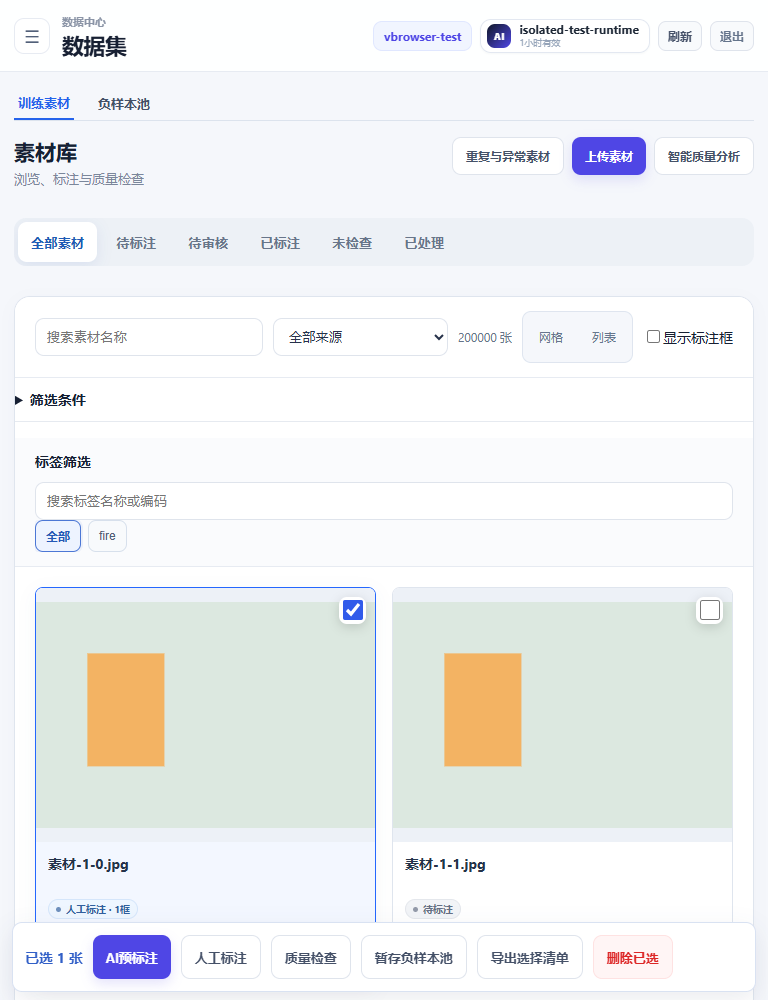
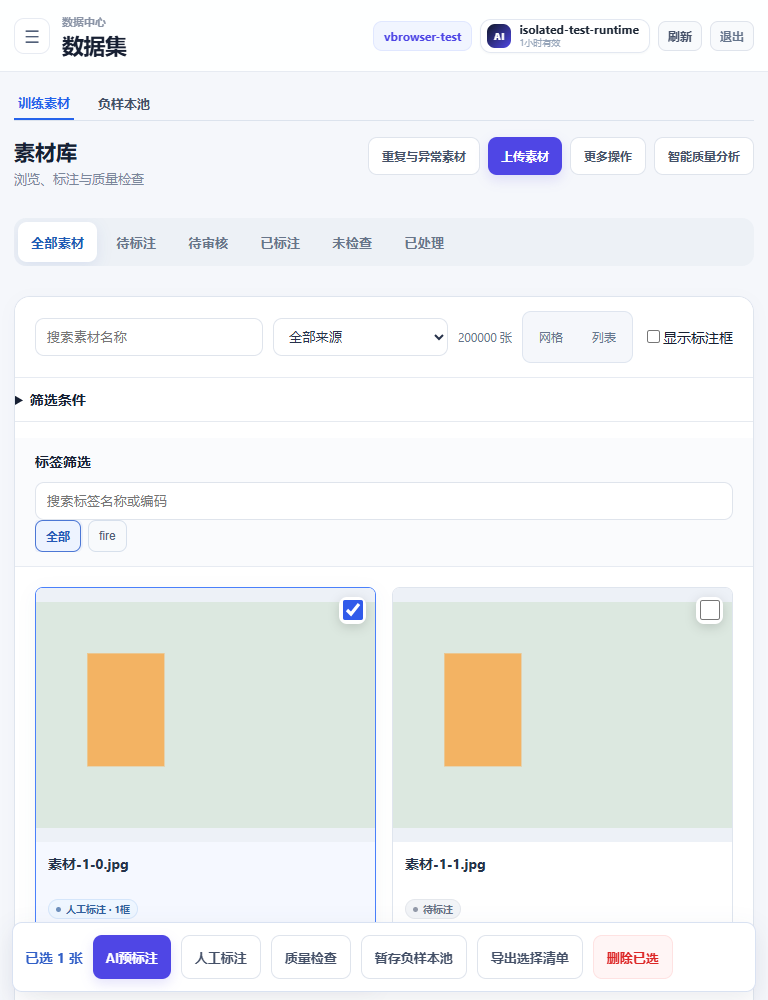
fix(materials): expose original project maintenance through scoped menu

Changed region(s): [[0.5, 0.124, 0.8438, 0.186]]

diff --git a/static/app.js b/static/app.js
@@ -5476,6 +5476,7 @@ var radar424 = window.radar424 = window.radar424 || function(scores,cls=''){cons
     document.querySelectorAll('[data-material-view]').forEach(button=>button.setAttribute('aria-pressed',String(button.dataset.materialView===view)));
   };
   function card412(x){const sel=state.data412Selected.has(x.id);return `<article class="data426-card data412-card ${sel?'selected':''}" data-material-id="${esc(x.id)}" onclick="previewData429('${esc(x.id)}')"><div class="data426-pic data411-pic">${materialMedia412(x,!state.materialShowBoxes549)}<label class="data426-check" onclick="event.stopPropagation()"><input aria-label="选择 ${esc(x.filename||x.id)}" type="checkbox" ${sel?'checked':''} onchange="setData412('${esc(x.id)}',this.checked)"><i></i></label></div><div class="data426-body"><div class="data426-title" title="${esc(x.filename)}">${esc(x.filename)}</div><div class="data426-meta"><span class="annotation-status-v66 ${esc(window.materialAnnotationStatusClassV66?.(x)||'pending')}">${esc(window.materialAnnotationStatusV66?.(x)||(x.annotated?`已标注 · ${x.box_count||0}框`:'待标注'))}</span></div><div class="data426-actions" onclick="event.stopPropagation()">${window.annotationMaterialActionV66(x)}<button class="btn mini" aria-label="更多操作 ${esc(x.filename||x.id)}" onclick="materialMenu549(this,'${esc(x.id)}')">${window.MaterialPresentation?.icon('ellipsis')||'⋯'}</button></div></div></article>`}
+  window.materialGlobalMenu552=button=>window.MaterialPresentation?.openMenu(button,[{label:'清空项目素材库',danger:true,action:()=>window.clearProjectMaterials61?.()}]);
   window.materialMenu549=(button,id)=>window.MaterialPresentation?.openMenu(button,[{label:'查看图片',action:()=>previewData429(id)},{label:'AI预标注',action:()=>createAiLabel427({image_ids:[id]})},{label:'人工标注',action:()=>openAnnotation(id)},{label:'质量检查（可选）',action:()=>createClean427({image_ids:[id]})},{label:'加入负样本池',action:()=>window.NegativePoolRuntime?.joinSelected?.([id])}]);
   window.toggleMaterialBoxes549=on=>{state.materialShowBoxes549=on;renderData412Cards()};
   window.materialBulk549=action=>{const ids=[...state.data412Selected];if(!ids.length)return toast('请先选择图片');if(action==='ai')return createAiLabel427({image_ids:ids});if(action==='manual')return window.openBatchAnnotation417();if(action==='quality')return createClean427({image_ids:ids});if(action==='negative')return window.NegativePoolRuntime?.joinSelected?.(ids);if(action==='export'){const blob=new Blob([JSON.stringify({project_id:pid(),image_ids:ids,filters:window.materialBatchFilters61?.()||{},scope:'explicit_selected_ids',kind:'material_selection_manifest'},null,2)],{type:'application/json'}),url=URL.createObjectURL(blob),link=document.createElement('a');link.href=url;link.download='素材选择清单.json';link.click();setTimeout(()=>URL.revokeObjectURL(url),0)};};
@@ -5529,7 +5530,7 @@ var radar424 = window.radar424 = window.radar424 || function(scores,cls=''){cons
     const pager=document.getElementById('data412Pager');if(pager)pager.innerHTML=`<button class="btn mini" ${state.data412Page<=1?'disabled':''} onclick="state.data412Page--;renderData412Cards()">上一页</button><span>${state.data412Page} / ${pages}</span><button class="btn mini" ${state.data412Page>=pages?'disabled':''} onclick="state.data412Page++;renderData412Cards()">下一页</button>`;
     if(rows.length)void window.refreshAiMaterialStates60?.(rows.map(row=>String(row.id)));
   }
-  window.renderDatasets424=function(){if(window.NegativePoolRuntime?.active('materials'))return window.NegativePoolRuntime.renderPool('materials');const tabs=[['all','全部素材'],['unannotated','待标注'],['needs_review','待审核'],['annotated','已标注'],['unprocessed','未检查'],['processed','已处理']];document.getElementById('view').innerHTML=`<section class="data426-shell material-workspace412"><div class="data426-head"><div><h2>素材库</h2><span>浏览、标注与质量检查</span></div><div class="row material-global-actions549"><button class="btn primary" onclick="openDataUpload426()">上传素材</button></div></div><div class="data424-tabs">${tabs.map(([key,title])=>`<button class="${state.data412Tab===key?'on':''}" onclick="setData412Tab('${key}')">${title}</button>`).join('')}</div><section class="panel data426-panel"><div class="data426-toolbar"><input id="data412Q" class="input" placeholder="搜索素材名称" oninput="state.data412Page=1;renderData412Cards()"><select id="materialSource61" class="select" onchange="state.materialSourceFilter61=this.value;renderDatasets424()"><option value="all">全部来源</option>${(state.storageSources61||[]).map(x=>`<option value="${esc(x.id)}" ${state.materialSourceFilter61===x.id?'selected':''}>${esc(x.name)}</option>`).join('')}</select><span id="data412Count"></span><div class="material-view-switch"><button class="btn" data-material-view="grid" onclick="setMaterialView412('grid')">网格</button><button class="btn" data-material-view="list" onclick="setMaterialView412('list')">列表</button></div><label><input type="checkbox" ${state.materialShowBoxes549?'checked':''} onchange="toggleMaterialBoxes549(this.checked)">显示标注框</label></div><details class="material-filters549"><summary>筛选条件</summary><div class="row"><label>ZIP批次<input class="input" value="${esc(state.materialBatchFilter61||'')}" onchange="setMaterialFilter549('materialBatchFilter61',this.value)"></label><label>质量状态<select class="select" onchange="setMaterialFilter549('materialQualityFilter61',this.value)"><option value="">全部</option><option value="pending_decision" ${state.materialQualityFilter61==='pending_decision'?'selected':''}>未检查</option><option value="processed" ${state.materialQualityFilter61==='processed'?'selected':''}>已处理</option><option value="issue" ${state.materialQualityFilter61==='issue'?'selected':''}>有问题</option></select></label><label>起始日期<input type="date" value="${esc(state.materialCreatedFrom61||'')}" onchange="setMaterialFilter549('materialCreatedFrom61',this.value)"></label><label>截止日期<input type="date" value="${esc(state.materialCreatedTo61||'')}" onchange="setMaterialFilter549('materialCreatedTo61',this.value)"></label></div></details><div class="data426-filtertop"><div class="data426-filter-title"><b>标签筛选</b></div><div class="data426-chips">${actualLabels412().slice(0,40).map(l=>`<button class="data426-chip ${state.data412Labels.has(l)?'on':''}" onclick="toggleLabel412('${esc(l)}')">${esc(l)}</button>`).join('')}<button class="btn" onclick="clearLabels412()">清除标签</button><button class="btn danger" onclick="state.data412DeleteMode=true;deleteFilteredMaterials61()">删除筛选结果</button></div></div><div id="data412Grid" class="data426-grid" data-material-view="${state.materialView412==='list'?'list':'grid'}"></div><div id="data412Pager" class="data426-pager"></div><div class="material-select-tools549"><button class="btn" onclick="selectAll412()">选择本页</button><button class="btn" onclick="invert412()">反选本页</button><button class="btn" onclick="state.data412Selected.clear();renderData412Cards()">清除选择</button></div><div id="materialBulk549" class="material-bulk549" hidden><b id="data412SelCount"></b><button class="btn primary" onclick="materialBulk549('ai')">AI预标注</button><button class="btn" onclick="materialBulk549('manual')">人工标注</button><button class="btn" onclick="materialBulk549('quality')">质量检查</button><button class="btn" onclick="materialBulk549('negative')">暂存负样本池</button><button class="btn" onclick="materialBulk549('export')">导出选择清单</button><button class="btn danger" onclick="batchDelete412()">删除已选</button></div></section></section>`;renderData412Cards();window.decorateDatasetControls414?.();window.decorateDatasetUsability417?.();window.renderSupplementDataBanner63?.();window.NegativePoolRuntime?.decorateOriginal('materials');if(!state.storageSourcesLoadedAt61&&!state.storageSourcesLoading61){const project=String(pid());window.loadStorageSources61?.().then(()=>{if(state.page==='数据集'&&String(pid())===project)renderDatasets424()}).catch(()=>{})}};
+  window.renderDatasets424=function(){if(window.NegativePoolRuntime?.active('materials'))return window.NegativePoolRuntime.renderPool('materials');const tabs=[['all','全部素材'],['unannotated','待标注'],['needs_review','待审核'],['annotated','已标注'],['unprocessed','未检查'],['processed','已处理']];document.getElementById('view').innerHTML=`<section class="data426-shell material-workspace412"><div class="data426-head"><div><h2>素材库</h2><span>浏览、标注与质量检查</span></div><div class="row material-global-actions549"><button class="btn primary" onclick="openDataUpload426()">上传素材</button><button class="btn" onclick="materialGlobalMenu552(this)">更多操作</button></div></div><div class="data424-tabs">${tabs.map(([key,title])=>`<button class="${state.data412Tab===key?'on':''}" onclick="setData412Tab('${key}')">${title}</button>`).join('')}</div><section class="panel data426-panel"><div class="data426-toolbar"><input id="data412Q" class="input" placeholder="搜索素材名称" oninput="state.data412Page=1;renderData412Cards()"><select id="materialSource61" class="select" onchange="state.materialSourceFilter61=this.value;renderDatasets424()"><option value="all">全部来源</option>${(state.storageSources61||[]).map(x=>`<option value="${esc(x.id)}" ${state.materialSourceFilter61===x.id?'selected':''}>${esc(x.name)}</option>`).join('')}</select><span id="data412Count"></span><div class="material-view-switch"><button class="btn" data-material-view="grid" onclick="setMaterialView412('grid')">网格</button><button class="btn" data-material-view="list" onclick="setMaterialView412('list')">列表</button></div><label><input type="checkbox" ${state.materialShowBoxes549?'checked':''} onchange="toggleMaterialBoxes549(this.checked)">显示标注框</label></div><details class="material-filters549"><summary>筛选条件</summary><div class="row"><label>ZIP批次<input class="input" value="${esc(state.materialBatchFilter61||'')}" onchange="setMaterialFilter549('materialBatchFilter61',this.value)"></label><label>质量状态<select class="select" onchange="setMaterialFilter549('materialQualityFilter61',this.value)"><option value="">全部</option><option value="pending_decision" ${state.materialQualityFilter61==='pending_decision'?'selected':''}>未检查</option><option value="processed" ${state.materialQualityFilter61==='processed'?'selected':''}>已处理</option><option value="issue" ${state.materialQualityFilter61==='issue'?'selected':''}>有问题</option></select></label><label>起始日期<input type="date" value="${esc(state.materialCreatedFrom61||'')}" onchange="setMaterialFilter549('materialCreatedFrom61',this.value)"></label><label>截止日期<input type="date" value="${esc(state.materialCreatedTo61||'')}" onchange="setMaterialFilter549('materialCreatedTo61',this.value)"></label></div></details><div class="data426-filtertop"><div class="data426-filter-title"><b>标签筛选</b></div><div class="data426-chips">${actualLabels412().slice(0,40).map(l=>`<button class="data426-chip ${state.data412Labels.has(l)?'on':''}" onclick="toggleLabel412('${esc(l)}')">${esc(l)}</button>`).join('')}<button class="btn" onclick="clearLabels412()">清除标签</button><button class="btn danger" onclick="state.data412DeleteMode=true;deleteFilteredMaterials61()">删除筛选结果</button></div></div><div id="data412Grid" class="data426-grid" data-material-view="${state.materialView412==='list'?'list':'grid'}"></div><div id="data412Pager" class="data426-pager"></div><div class="material-select-tools549"><button class="btn" onclick="selectAll412()">选择本页</button><button class="btn" onclick="invert412()">反选本页</button><button class="btn" onclick="state.data412Selected.clear();renderData412Cards()">清除选择</button></div><div id="materialBulk549" class="material-bulk549" hidden><b id="data412SelCount"></b><button class="btn primary" onclick="materialBulk549('ai')">AI预标注</button><button class="btn" onclick="materialBulk549('manual')">人工标注</button><button class="btn" onclick="materialBulk549('quality')">质量检查</button><button class="btn" onclick="materialBulk549('negative')">暂存负样本池</button><button class="btn" onclick="materialBulk549('export')">导出选择清单</button><button class="btn danger" onclick="batchDelete412()">删除已选</button></div></section></section>`;renderData412Cards();window.decorateDatasetControls414?.();window.decorateDatasetUsability417?.();window.renderSupplementDataBanner63?.();window.NegativePoolRuntime?.decorateOriginal('materials');if(!state.storageSourcesLoadedAt61&&!state.storageSourcesLoading61){const project=String(pid());window.loadStorageSources61?.().then(()=>{if(state.page==='数据集'&&String(pid())===project)renderDatasets424()}).catch(()=>{})}};
   window.setData412Tab=t=>{state.data412Tab=t;state.data412Labels.clear();state.data412Selected.clear();state.data412DeleteMode=false;state.data412Page=1;renderDatasets424()};
   window.toggleLabel412=l=>{state.data412Labels.has(l)?state.data412Labels.delete(l):state.data412Labels.add(l);state.data412Page=1;renderDatasets424()};
   window.clearLabels412=()=>{state.data412Labels.clear();state.data412Page=1;renderDatasets424()};

diff --git a/static/index.html b/static/index.html
@@ -5,7 +5,7 @@
   <meta name="viewport" content="width=device-width,initial-scale=1" />
   <meta name="theme-color" content="#f6f8fc" />
   <title>算法训练</title>
-  <link rel="stylesheet" href="/static/styles.css?v=42.25.551" />
+  <link rel="stylesheet" href="/static/styles.css?v=42.25.552" />
   <link rel="stylesheet" href="/static/conversion-workbench.css?v=42.24.525" />
   <link rel="stylesheet" href="/static/smart-material-audit.css?v=42.25.532" />
   <link rel="stylesheet" href="/static/advanced-navigation.css?v=20261028" />
@@ -68,9 +68,9 @@
   <script src="/static/browser-runtime.js?v=422600"></script>
   <script src="/static/auth-session.js?v=4226530"></script>
   <script src="/static/material-pagination-bootstrap.js?v=42.24.0"></script>
-  <script src="/static/app.js?v=42.25.551"></script>
+  <script src="/static/app.js?v=42.25.552"></script>
   <script src="/static/modules/conversion-workbench-ui.js?v=42.24.525"></script>
-  <script type="module" src="/static/main.mjs?v=42.25.551"></script>
+  <script type="module" src="/static/main.mjs?v=42.25.552"></script>
   <script type="module" src="/static/material-upload-bootstrap.mjs?v=4224506"></script>
   <script type="module" src="/static/zip-import-bootstrap.mjs?v=4226549"></script>
   <script type="module" src="/static/modules/storage-cache-runtime.js?v=20261024-layout"></script>

diff --git a/docs/MATERIAL_LIBRARY_ZIP_2026_11_06.md b/docs/MATERIAL_LIBRARY_ZIP_2026_11_06.md
@@ -1,4 +1,4 @@
-# 素材库、图片详情与ZIP导入专项 42.24.551
+# 素材库、图片详情与ZIP导入专项 42.24.552
 
 日期：2026-11-06。真实基线42.24.548 / 4aa155ddc355b05d6f984e5f740c9540e4b81b2a；独立克隆长期分支。已读上轮审核专项全文和本轮Word全部7张插图，截图中的537不作为运行或部署证明。原WIP和另一工作树未改，生产未访问。
 
@@ -55,7 +55,7 @@
 
 所有截图位于images/material-library-zip-20261106；before来自独立548只读基线的真实Chrome，after来自实现页面，均为隔离夹具而非设计线框或生产数据。ZIP真实API浏览器使用临时Uvicorn/真实SQLite/实际压缩文件；模型未调用。
 
-隔离20万真实SQLite元数据基准：每页48，21次采样，首页P95 6.996ms，深页33.524ms，来源+标签8.371ms，名称8.378ms。Network/DOM夹具模拟20万总数，只渲染48张，勾选至下一帧P50 16.7ms/P95 16.8ms，DOM身份保持。后者不是20万真实图片网络或整机性能，具体采样文件同目录。
+隔离20万真实SQLite元数据基准：每页48，21次采样，首页P95 6.996ms，深页33.524ms，来源+标签8.371ms，名称8.378ms。Network/DOM夹具模拟20万总数，只渲染48张，勾选至下一帧P50 16.6ms/P95 17.1ms，DOM身份保持。后者不是20万真实图片网络或整机性能，具体采样文件同目录。
 
 明确NOT VERIFIED：生产20万真实图片/远端存储/P95、4070真实视觉模型、A800训练、长期多人并发及真实触控硬件。浏览器触控模拟和真实Chrome不等于生产实机。
 
@@ -97,3 +97,12 @@
 551本地新增复验：原素材完整性/智能审计15/15，完整Annotorious23/23，完整导航28/28，新素材布局与组件6/6；后者与先前11有重叠，不累加冒称独立用例。所有原GT、框数、堆采样、连续20图、事务范围和生命周期断言保留。
 
 发布传输预案：GitHub HTTPS smart-HTTP多次连接失败时，使用现有Git认证在内存中调用GitHub官方Git Data API上传同一Git对象；逐个校验blob/tree/commit SHA与本地完全一致，先核对远端HEAD，最后force=false快进。若任何SHA或远端基线不一致立即停止，不重建/改写本地历史，不使用第三方代理、不关闭TLS、不输出或落盘凭据。最终实际是否成功以交付报告为准。
+
+
+### 2026-11-07 / 42.24.552 全局项目维护入口收口
+
+551准确CI终态40success/1failure，Frontend前端合同与分片1/3成功，分片2为115/116；唯一剩余用例等待旧“批量操作”再找项目清空入口。新版确实遗漏了该既有入口。现全局“更多操作”使用原Floating UI菜单，清空动作直接委托原clearProjectMaterials61→runMaterialBatch62(DELETE_INDEX,scope=PROJECT)。普通用户可进入原影响预览、项目名确认与冻结任务流程；无第二套删除Owner，无实际生产数据操作。
+
+对应浏览器测试改走新菜单，并额外验证原Owner的操作与PROJECT范围参数；同文件真实38图准入、正式GT、失败/部分删除和精确项目名安全断言不变。移动抽屉回归改用更多操作并验证Escape焦点回收，不恢复退役批量模式。
+
+552本地复验：完整训练准入/删除治理8/8、全量前端1556/1556；移动核心入口及三视口素材库组合6/6。移动核心入口旧算法按钮选择器同时兼容既有“新建本地算法”名称，未修改算法业务；新菜单Escape恢复焦点纳入原前端CI。

diff --git a/AGENTS.md b/AGENTS.md
@@ -1,3 +1,5 @@
+> **2026-11-07 / 42.24.552 项目维护入口收口**：551准确CI40success/1failure，最后一例暴露新版项目清空入口遗漏。全局更多操作委托原clearProjectMaterials61与PROJECT预检/项目名确认/冻结链；无新删除Owner、未执行生产删除。浏览器保留38图/GT/部分失败/精确范围安全断言，另验菜单委托。详见素材ZIP专项，准确新SHA CI需独立核验。
+
 > **2026-11-07 / 42.24.551 原素材工具入口回归**：549前端两个分片因缺失全局审计入口及旧批量/整理选择器反复超时而取消，非外部噪声。恢复原页头row宿主，让原decorator装载重复异常/智能审计；测试改走常驻勾选、固定人工栏及ZIP四动作，GT/范围/恢复断言不变。详见素材ZIP专项，准确新SHA CI独立核验，生产未动。
 
 > **2026-11-07 / 42.24.550 素材专项CI入口修正**：549准确CI的Material Upload Chunking旧测试精确匹配“上传”，本轮按钮为“上传素材”；只改选择器，原五文件/失败项/回执/GT断言保留。原前端CI加入新vendor校验，产品业务合同同549。详见素材ZIP专项；新SHA CI独立核对，生产未动。

diff --git a/docs/CODEX_CURRENT_STATE.md b/docs/CODEX_CURRENT_STATE.md
@@ -1,3 +1,5 @@
+> **2026-11-07 / 42.24.552 项目维护入口收口**：551准确CI40success/1failure，最后一例暴露新版项目清空入口遗漏。全局更多操作委托原clearProjectMaterials61与PROJECT预检/项目名确认/冻结链；无新删除Owner、未执行生产删除。浏览器保留38图/GT/部分失败/精确范围安全断言，另验菜单委托。详见素材ZIP专项，准确新SHA CI需独立核验。
+
 > **2026-11-07 / 42.24.551 原素材工具入口回归**：549前端两个分片因缺失全局审计入口及旧批量/整理选择器反复超时而取消，非外部噪声。恢复原页头row宿主，让原decorator装载重复异常/智能审计；测试改走常驻勾选、固定人工栏及ZIP四动作，GT/范围/恢复断言不变。详见素材ZIP专项，准确新SHA CI独立核验，生产未动。
 
 > **2026-11-07 / 42.24.550 素材专项CI入口修正**：549准确CI的Material Upload Chunking旧测试精确匹配“上传”，本轮按钮为“上传素材”；只改选择器，原五文件/失败项/回执/GT断言保留。原前端CI加入新vendor校验，产品业务合同同549。详见素材ZIP专项；新SHA CI独立核对，生产未动。

diff --git a/docs/FRONTEND_OWNER_MAP_V42_25.md b/docs/FRONTEND_OWNER_MAP_V42_25.md
@@ -1,3 +1,5 @@
+> **2026-11-07 / 42.24.552 项目维护入口收口**：551准确CI40success/1failure，最后一例暴露新版项目清空入口遗漏。全局更多操作委托原clearProjectMaterials61与PROJECT预检/项目名确认/冻结链；无新删除Owner、未执行生产删除。浏览器保留38图/GT/部分失败/精确范围安全断言，另验菜单委托。详见素材ZIP专项，准确新SHA CI需独立核验。
+
 > **2026-11-07 / 42.24.551 原素材工具入口回归**：549前端两个分片因缺失全局审计入口及旧批量/整理选择器反复超时而取消，非外部噪声。恢复原页头row宿主，让原decorator装载重复异常/智能审计；测试改走常驻勾选、固定人工栏及ZIP四动作，GT/范围/恢复断言不变。详见素材ZIP专项，准确新SHA CI独立核验，生产未动。
 
 > **2026-11-07 / 42.24.550 素材专项CI入口修正**：549准确CI的Material Upload Chunking旧测试精确匹配“上传”，本轮按钮为“上传素材”；只改选择器，原五文件/失败项/回执/GT断言保留。原前端CI加入新vendor校验，产品业务合同同549。详见素材ZIP专项；新SHA CI独立核对，生产未动。

diff --git a/docs/TECH_DEBT_CLOSURE_V42_25.md b/docs/TECH_DEBT_CLOSURE_V42_25.md
@@ -1,3 +1,5 @@
+> **2026-11-07 / 42.24.552 项目维护入口收口**：551准确CI40success/1failure，最后一例暴露新版项目清空入口遗漏。全局更多操作委托原clearProjectMaterials61与PROJECT预检/项目名确认/冻结链；无新删除Owner、未执行生产删除。浏览器保留38图/GT/部分失败/精确范围安全断言，另验菜单委托。详见素材ZIP专项，准确新SHA CI需独立核验。
+
 > **2026-11-07 / 42.24.551 原素材工具入口回归**：549前端两个分片因缺失全局审计入口及旧批量/整理选择器反复超时而取消，非外部噪声。恢复原页头row宿主，让原decorator装载重复异常/智能审计；测试改走常驻勾选、固定人工栏及ZIP四动作，GT/范围/恢复断言不变。详见素材ZIP专项，准确新SHA CI独立核验，生产未动。
 
 > **2026-11-07 / 42.24.550 素材专项CI入口修正**：549准确CI的Material Upload Chunking旧测试精确匹配“上传”，本轮按钮为“上传素材”；只改选择器，原五文件/失败项/回执/GT断言保留。原前端CI加入新vendor校验，产品业务合同同549。详见素材ZIP专项；新SHA CI独立核对，生产未动。

diff --git a/docs/frontend-legacy-audit.md b/docs/frontend-legacy-audit.md
@@ -1,3 +1,5 @@
+> **2026-11-07 / 42.24.552 项目维护入口收口**：551准确CI40success/1failure，最后一例暴露新版项目清空入口遗漏。全局更多操作委托原clearProjectMaterials61与PROJECT预检/项目名确认/冻结链；无新删除Owner、未执行生产删除。浏览器保留38图/GT/部分失败/精确范围安全断言，另验菜单委托。详见素材ZIP专项，准确新SHA CI需独立核验。
+
 > **2026-11-07 / 42.24.551 原素材工具入口回归**：549前端两个分片因缺失全局审计入口及旧批量/整理选择器反复超时而取消，非外部噪声。恢复原页头row宿主，让原decorator装载重复异常/智能审计；测试改走常驻勾选、固定人工栏及ZIP四动作，GT/范围/恢复断言不变。详见素材ZIP专项，准确新SHA CI独立核验，生产未动。
 
 > **2026-11-07 / 42.24.550 素材专项CI入口修正**：549准确CI的Material Upload Chunking旧测试精确匹配“上传”，本轮按钮为“上传素材”；只改选择器，原五文件/失败项/回执/GT断言保留。原前端CI加入新vendor校验，产品业务合同同549。详见素材ZIP专项；新SHA CI独立核对，生产未动。

diff --git a/README.md b/README.md
@@ -1,4 +1,4 @@
-# 算法训练 v42.24.551
+# 算法训练 v42.24.552
 
 面向视觉算法生产流程的一体化平台，覆盖素材上传、数据清洗、人工与 AI 标注、训练任务调度、算法版本迭代、模型转换和部署测试。
 
